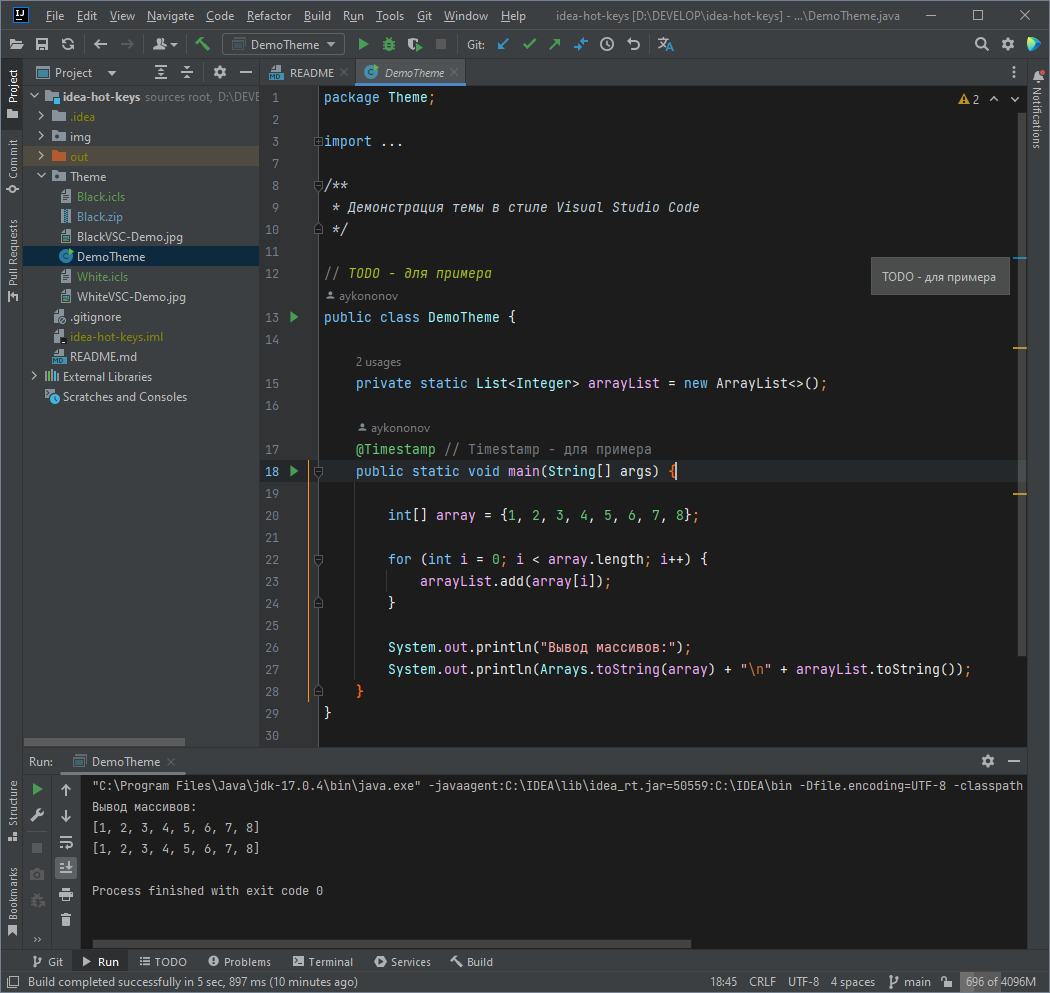
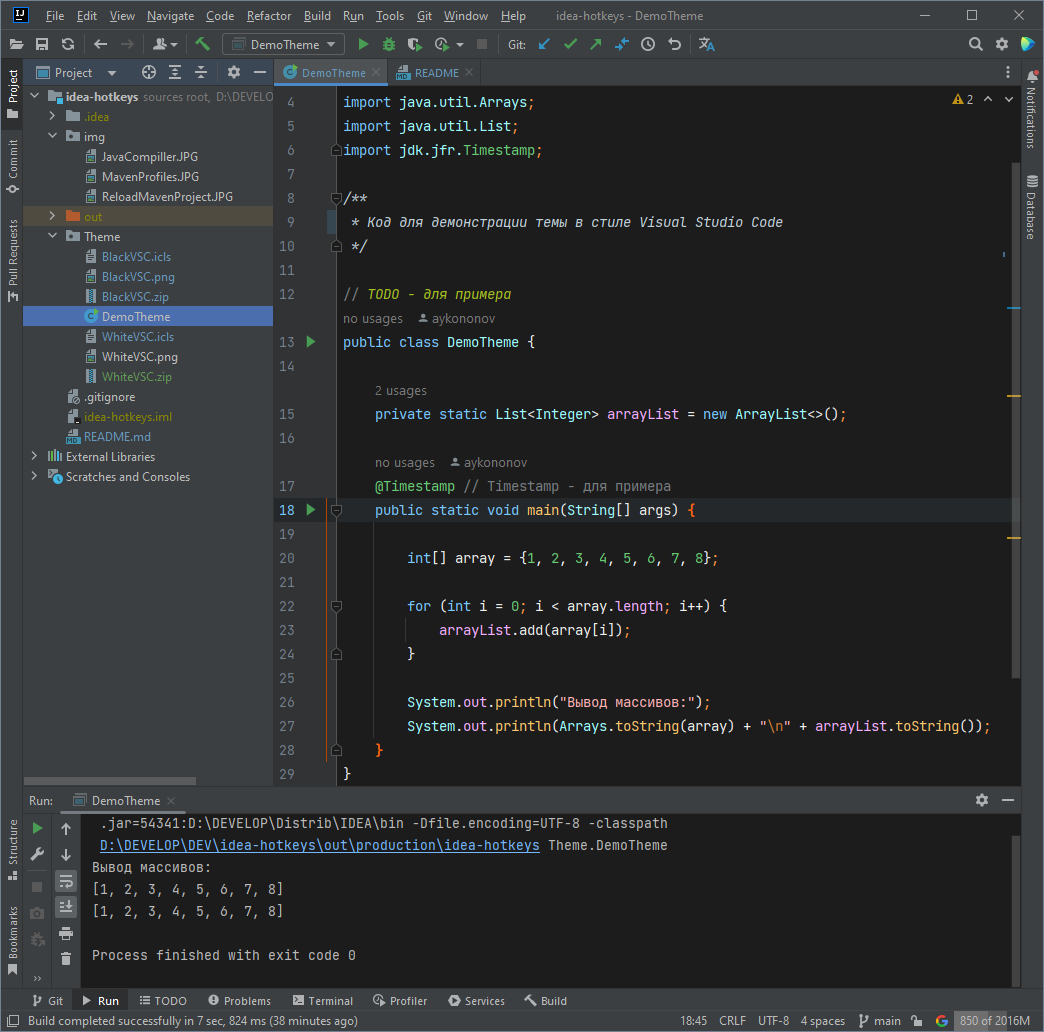
Update theme

diff --git a/Theme/DemoTheme.java b/Theme/DemoTheme.java
@@ -6,7 +6,7 @@ import java.util.List;
 import jdk.jfr.Timestamp;
 
 /**
- * Демонстрация темы в стиле Visual Studio Code
+ * Код для демонстрации темы в стиле Visual Studio Code
  */
 
 // TODO - для примера

diff --git a/README.md b/README.md
@@ -1,4 +1,6 @@
-## IntelliJ IDEA Hotkeys - горячие клавиши + Темы
+## IntelliJ IDEA - Hotkeys (Горячие клавиши)
+
+## IntelliJ IDEA - Theme in style Visual Studio Code (Тема в стиле Visual Studio Code)
 
 <details Java><summary>Java - горячие клавиши</summary>
 
@@ -69,7 +71,7 @@
 
 </details>
 
-<details Редактор><summary>Редактор - горячие клавиши</summary>
+<details Редактор><summary>Редактор - горячие клавиши (Editor - hotkeys)</summary>
 
 ```
 Ctrl + Shift + U        Переключить в "ВЕРХНИЙ/нижний" регистр 
@@ -235,14 +237,18 @@ Ctrl + Shift + Q        В Scala-плагине определяет implicit п
 
 **Черная тема для IntelliJ IDEA в стиле Visual Studio Code**
 
-_Скачайте и извлектите файл_ [BlackVSC.icls](./Theme/BlackVSC.icls.zip "скачать BlackVSC.icls.zip") _из архива._
+_Скачайте и извлектите файл_ [BlackVSC.icls](./Theme/BlackVSC.zip "скачать BlackVSC.zip") _из архива._
 
 ![BlackVSC.png](./Theme/BlackVSC.png)
 
 **Белая тема для IntelliJ IDEA в стиле Visual Studio Code**
 
-_Скачайте и извлектите файл_ [WhiteVSC.icls](./Theme/WhiteVSC.icls.zip "скачать WhiteVSC.icls.zip") _из архива._
+_Скачайте и извлектите файл_ [WhiteVSC.icls](./Theme/WhiteVSC.zip "скачать WhiteVSC.zip") _из архива._
 
 ![WhiteVSC.png](./Theme/WhiteVSC.png)
+
+### Импорт темы в IntelliJ IDEA
+
+![SettingsTheme.png](./Theme/SettingsTheme.png)
 
 </blockquote></details>
